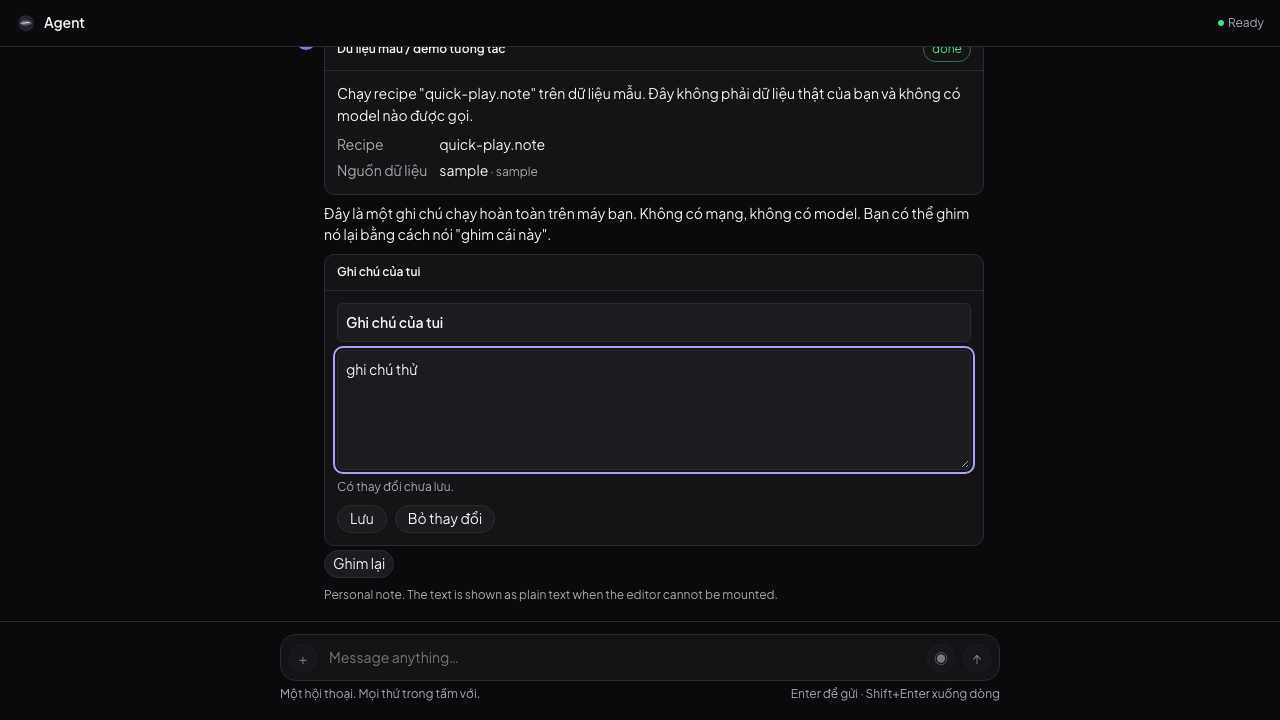
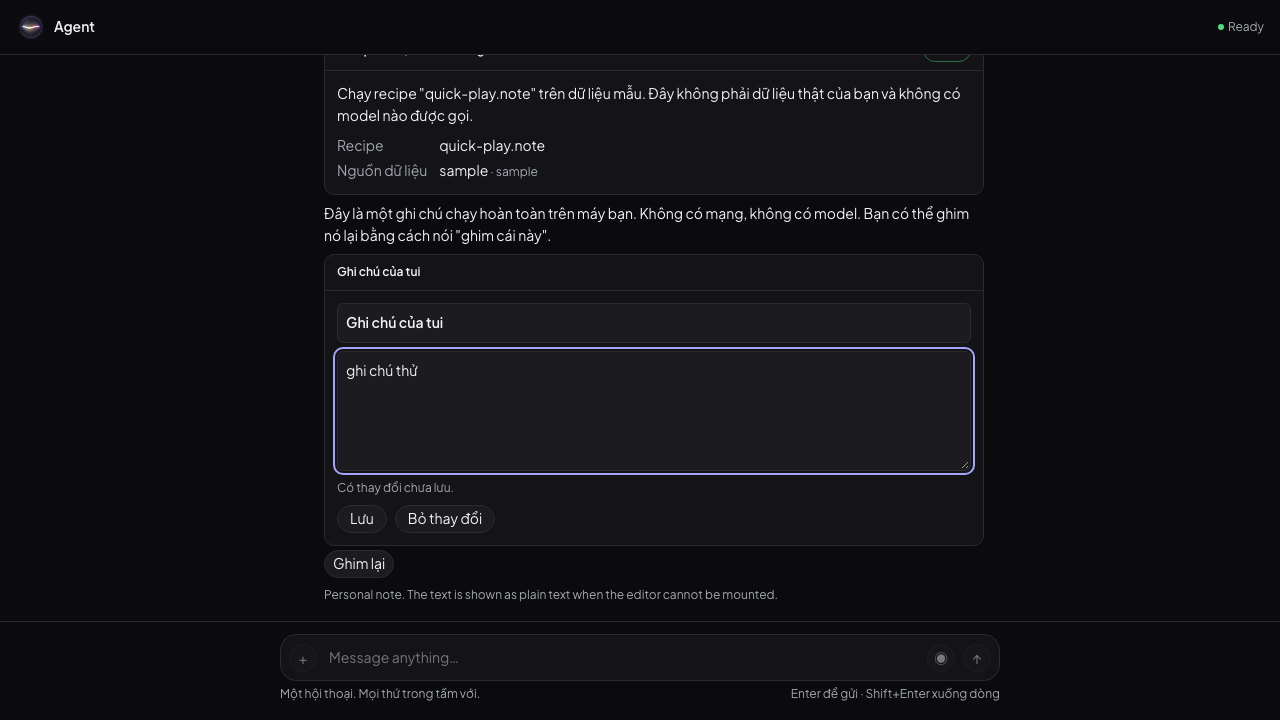
fix(runtime,web): an orb 1.5x larger and faster, and the crash it was found behind
**The orb**, as asked: the header mark goes from 20px to 30px, the band's drift is roughly doubled
and weighted harder towards the middle so the movement is anchored where the band meets the glass,
and the animation runs at 1.23 instead of 0.82.

**A crash, found because the app was open to look at.** The status read "Mất kết nối" and the node
had died with `UNIQUE constraint failed: messages.message_id`. Two defects, both real:

  1. **Identifiers were built from a counter that restarts at one.** The rows the previous process
     wrote are still in the database, so the first message after every restart collided with an id
     that already existed. This was not an edge case; it was guaranteed on the second run against
     an existing data directory, and it fired the first time the node was restarted with the app
     pointed at it. Identifiers now carry a discriminator derived from the start time and random
     bytes, so they are unique across runs while staying readable and ordered within one.

  2. **A request that threw took the whole node down.** `handleRequest` was called with no guard,
     so an error inside one request became an uncaught exception and every other conversation on
     that node died with it. The handler is now wrapped: the failure is reported on stderr and
     answered with a 500, which is what a request boundary is for.

The identifier property is now tested directly, by taking identifiers, reloading the module as a
[…]

diff --git a/apps/runtime/test/identifier-uniqueness.spec.ts b/apps/runtime/test/identifier-uniqueness.spec.ts
@@ -1,0 +1,56 @@
+import { describe, expect, it, vi } from "vitest";
+
+import { newId } from "../src/services.ts";
+
+/**
+ * Identifier uniqueness across restarts.
+ *
+ * The runtime crashed with `UNIQUE constraint failed: messages.message_id` on the first message
+ * after a restart. The cause was an identifier built from a counter that starts at one in every
+ * process, while the rows the previous process wrote are still in the database.
+ *
+ * This reproduces that condition directly: take identifiers, then load the module again as a
+ * fresh process would and take more. Two runs of the same build against the same data directory
+ * must not agree on an identifier.
+ */
+
+/** Identifiers from a freshly loaded module, which is what a restarted process has. */
+async function identifiersFromAFreshProcess(count: number): Promise<string[]> {
+  vi.resetModules();
+  const module = await import("../src/services.ts");
+  return Array.from({ length: count }, () => module.newId("msg"));
+}
+
+describe("an identifier is unique across restarts, not just within one process", () => {
+  it("does not repeat an identifier when the process starts again", async () => {
+    const first = await identifiersFromAFreshProcess(5);
+    const second = await identifiersFromAFreshProcess(5);
+
+    // This is the assertion the old counter failed: both runs started at one and produced
+    // `msg_00000001`, so the second run collided with rows the first had already written.
+    const overlap = first.filter((id) => second.includes(id));
+    expect(overlap).toEqual([]);
+  });
+
+  it("is unique within a single process as well", () => {
+    // The static import, so this also keeps the export visibly used rather than only reached
+    // through a dynamic import that tooling cannot follow.
+    const ids = Array.from({ length: 200 }, () => newId("msg"));
+    expect(new Set(ids).size).toBe(ids.length);
+  });
+
+  it("stays inside what a message id may contain", () => {
+    const ids = Array.from({ length: 3 }, () => newId("msg"));
+    for (const id of ids) {
+      // The contract allows only these characters and bounds the length; an identifier that
+      // violated it would fail validation at the point of storage rather than here.
+      expect(id).toMatch(/^msg_[A-Za-z0-9_-]+$/);
+      expect(id.length).toBeLessThanOrEqual(128);
+    }
+  });
+
+  it("keeps the prefix, so identifiers stay readable in logs and fixtures", () => {
+    const ids = Array.from({ length: 2 }, () => newId("msg"));
+    for (const id of ids) expect(id.startsWith("msg_")).toBe(true);
+  });
+});

diff --git a/apps/runtime/src/main.ts b/apps/runtime/src/main.ts
@@ -11,7 +11,7 @@ import { createServer } from "node:http";
 import { homedir } from "node:os";
 import { join } from "node:path";
 
-import { handleRequest } from "./gateway.ts";
+import { handleRequest, type GatewayResponse } from "./gateway.ts";
 import { bootNodeServices } from "./services.ts";
 
 interface CliOptions {
@@ -56,16 +56,40 @@ async function main(): Promise<void> {
     request.on("data", (chunk: Buffer) => chunks.push(chunk));
     request.on("end", () => {
       const url = new URL(request.url ?? "/", `http://${options.host}:${options.port}`);
-      const result = handleRequest(
-        { services },
-        {
-          method: request.method ?? "GET",
-          path: url.pathname,
-          query: Object.fromEntries(url.searchParams),
-          headers: request.headers as Record<string, string | string[] | undefined>,
-          body: Buffer.concat(chunks).toString("utf8"),
-        },
-      );
+
+      // The handler is guarded. A request that cannot be satisfied is the request's problem, and
+      // answering it with a 500 is the whole job of this boundary — letting it reach the process
+      // means one bad message takes the node down and every other conversation with it. That is
+      // exactly how this was found: a duplicate id killed the node the user was reviewing.
+      let result: GatewayResponse;
+      try {
+        result = handleRequest(
+          { services },
+          {
+            method: request.method ?? "GET",
+            path: url.pathname,
+            query: Object.fromEntries(url.searchParams),
+            headers: request.headers as Record<string, string | string[] | undefined>,
+            body: Buffer.concat(chunks).toString("utf8"),
+          },
+        );
+      } catch (cause) {
+        // The message is reported rather than swallowed, because a caller that cannot see why a
+        // request failed will retry it unchanged.
+        process.stderr.write(
+          `request ${request.method ?? "GET"} ${url.pathname} failed: ${cause instanceof Error ? cause.stack ?? cause.message : String(cause)}\n`,
+        );
+        result = {
+          status: 500,
+          body: {
+            error: {
+              code: "INTERNAL_ERROR",
+              message: cause instanceof Error ? cause.message : String(cause),
+            },
+          },
+        };
+      }
+
       response.writeHead(result.status, {
         "content-type": "application/json",
         // The browser client is served from a different origin during development, and the

diff --git a/packages/conversation-client/src/orb-shader.ts b/packages/conversation-client/src/orb-shader.ts
@@ -90,17 +90,20 @@ void main() {
   float lens = sqrt(max(0.0, 1.0 - nx * nx));
 
   // A slow drift, so the band breathes instead of sitting still. Two frequencies keep it from
-  // looking like a single sine.
-  float drift = sin(nx * 3.2 + u_time * 1.15) * 0.020 * lens
-              + sin(nx * 6.1 - u_time * 0.70) * 0.008 * lens;
+  // looking like a single sine, and the lens weighting concentrates the movement towards the
+  // middle: the band is anchored where it meets the glass and moves most where it is widest.
+  float sway = pow(lens, 1.30);
+  float drift = sin(nx * 3.2 + u_time * 1.15) * 0.045 * sway
+              + sin(nx * 6.1 - u_time * 0.70) * 0.016 * sway;
   float y = p.y - drift;
 
   // Two vertical profiles: a broad halo that lights the glass around the band, and a thin core
   // that is the bright line itself. The exponents matter more than the amplitudes — a low power
   // keeps the band the same thickness across the whole width, which reads as a stripe, while a
-  // higher one tapers it towards the ends and reads as a lens.
-  float haloH = 0.240 * pow(lens, 1.55);
-  float coreH = 0.050 * pow(lens, 2.05);
+  // higher one tapers it towards the ends and reads as a lens. The exponents are kept just under
+  // the exponent on the lens itself so the band is thickest in the middle.
+  float haloH = 0.270 * pow(lens, 1.40);
+  float coreH = 0.056 * pow(lens, 1.90);
   // Gated by the lens itself, fading out well before the silhouette. Without the gate the profiles
   // are evaluated with a vanishing denominator where the lens closes, so the gaussian is taken at
   // zero over a near-zero width and returns one — a bright hairline running off the equator. The

diff --git a/apps/runtime/src/services.ts b/apps/runtime/src/services.ts
@@ -1,3 +1,5 @@
+import { randomBytes } from "node:crypto";
+
 import { type Instant, type WidgetDefinition, nowInstant } from "@clarkcant/contracts";
 import {
   type ConductorDeps,
@@ -34,11 +36,32 @@ export interface NodeServices {
   describe: () => { node: string; platform: string; arch: string };
 }
 
+/**
+ * A discriminator unique to this process.
+ *
+ * A counter alone is not enough. It restarts at one whenever the node restarts, and the rows the
+ * previous process wrote are still in the database — so the first message after every restart
+ * collides with an id that already exists. That is not an edge case; it is what happens every
+ * time the node is started a second time against an existing data directory.
+ *
+ * The start time separates two runs and the random suffix separates two runs that began in the
+ * same millisecond.
+ */
+const idDiscriminator = `${Date.now().toString(36)}${randomBytes(3).toString("hex")}`;
 let idCounter = 0;
 
-function newId(prefix: string): string {
+/**
+ * Mint an identifier for a record.
+ *
+ * Exported so its uniqueness across restarts can be tested directly. The property is not
+ * incidental: this is the function whose counter-based predecessor took the node down on the
+ * first message after a restart.
+ */
+export function newId(prefix: string): string {
   idCounter += 1;
-  return `${prefix}_${String(idCounter).padStart(8, "0")}`;
+  // Still short, still readable, and still ordered within a run, which keeps logs and fixtures
+  // legible while making the value unique across runs.
+  return `${prefix}_${idDiscriminator}${idCounter.toString(36)}`;
 }
 
 export function bootNodeServices(options: RuntimeOptions): NodeServices {

diff --git a/packages/mcp-adapters/test/stdio.spec.ts b/packages/mcp-adapters/test/stdio.spec.ts
@@ -121,8 +121,12 @@ describe("calling a tool", () => {
 
 describe("failure modes each settle", () => {
   it("times out a server that stops answering, instead of hanging", async () => {
-    const transport = await connect("hang", 300);
-    await expect(transport.listTools()).rejects.toThrow(/did not answer tools\/list within 300 ms/);
+    // The budget has to cover spawning the process and completing the handshake before it can
+    // reach the request under test. At 300ms it measured how busy the machine was: under a full
+    // suite run the handshake alone took longer, and the failure was reported as a timeout on
+    // `initialize` rather than on the call this test is about.
+    const transport = await connect("hang", 2500);
+    await expect(transport.listTools()).rejects.toThrow(/did not answer tools\/list/);
   });
 
   it("rejects everything in flight when the server dies, and keeps its stderr", async () => {

diff --git a/packages/conversation-client/src/Conversation.tsx b/packages/conversation-client/src/Conversation.tsx
@@ -227,7 +227,7 @@ export function Conversation({
     <div className="cc-shell">
       <header className="cc-header">
         <div className="cc-brand">
-          <Orb size={20} className="cc-orb" label="" />
+          <Orb size={30} className="cc-orb" label="" />
           <span>Agent</span>
         </div>
         <div className="cc-status" role="status" aria-live="polite" data-connection={connection}>

diff --git a/packages/conversation-client/src/styles.ts b/packages/conversation-client/src/styles.ts
@@ -38,7 +38,7 @@ body {
 }
 .cc-brand { display: flex; align-items: center; gap: var(--cc-space-sm); font-weight: 600; }
 .cc-orb {
-  width: 18px; height: 18px; border-radius: var(--cc-radius-full);
+  width: 27px; height: 27px; border-radius: var(--cc-radius-full);
   display: block; flex: none;
   /*
    * The fallback is scoped to the fallback state. The canvas is transparent so it can composite

diff --git a/packages/conversation-client/src/orb.ts b/packages/conversation-client/src/orb.ts
@@ -130,7 +130,7 @@ export function createOrbRenderer(
     glow: options.glow ?? ORB_SHAPE.glow,
     sheen: options.sheen ?? ORB_SHAPE.sheen,
   };
-  const speed = options.speed ?? 0.82;
+  const speed = options.speed ?? 1.23;
   const palette = { ...ORB_PALETTE, ...(options.palette ?? {}) };
 
   const vertex = compile(gl, gl.VERTEX_SHADER, ORB_VERTEX_SHADER);
